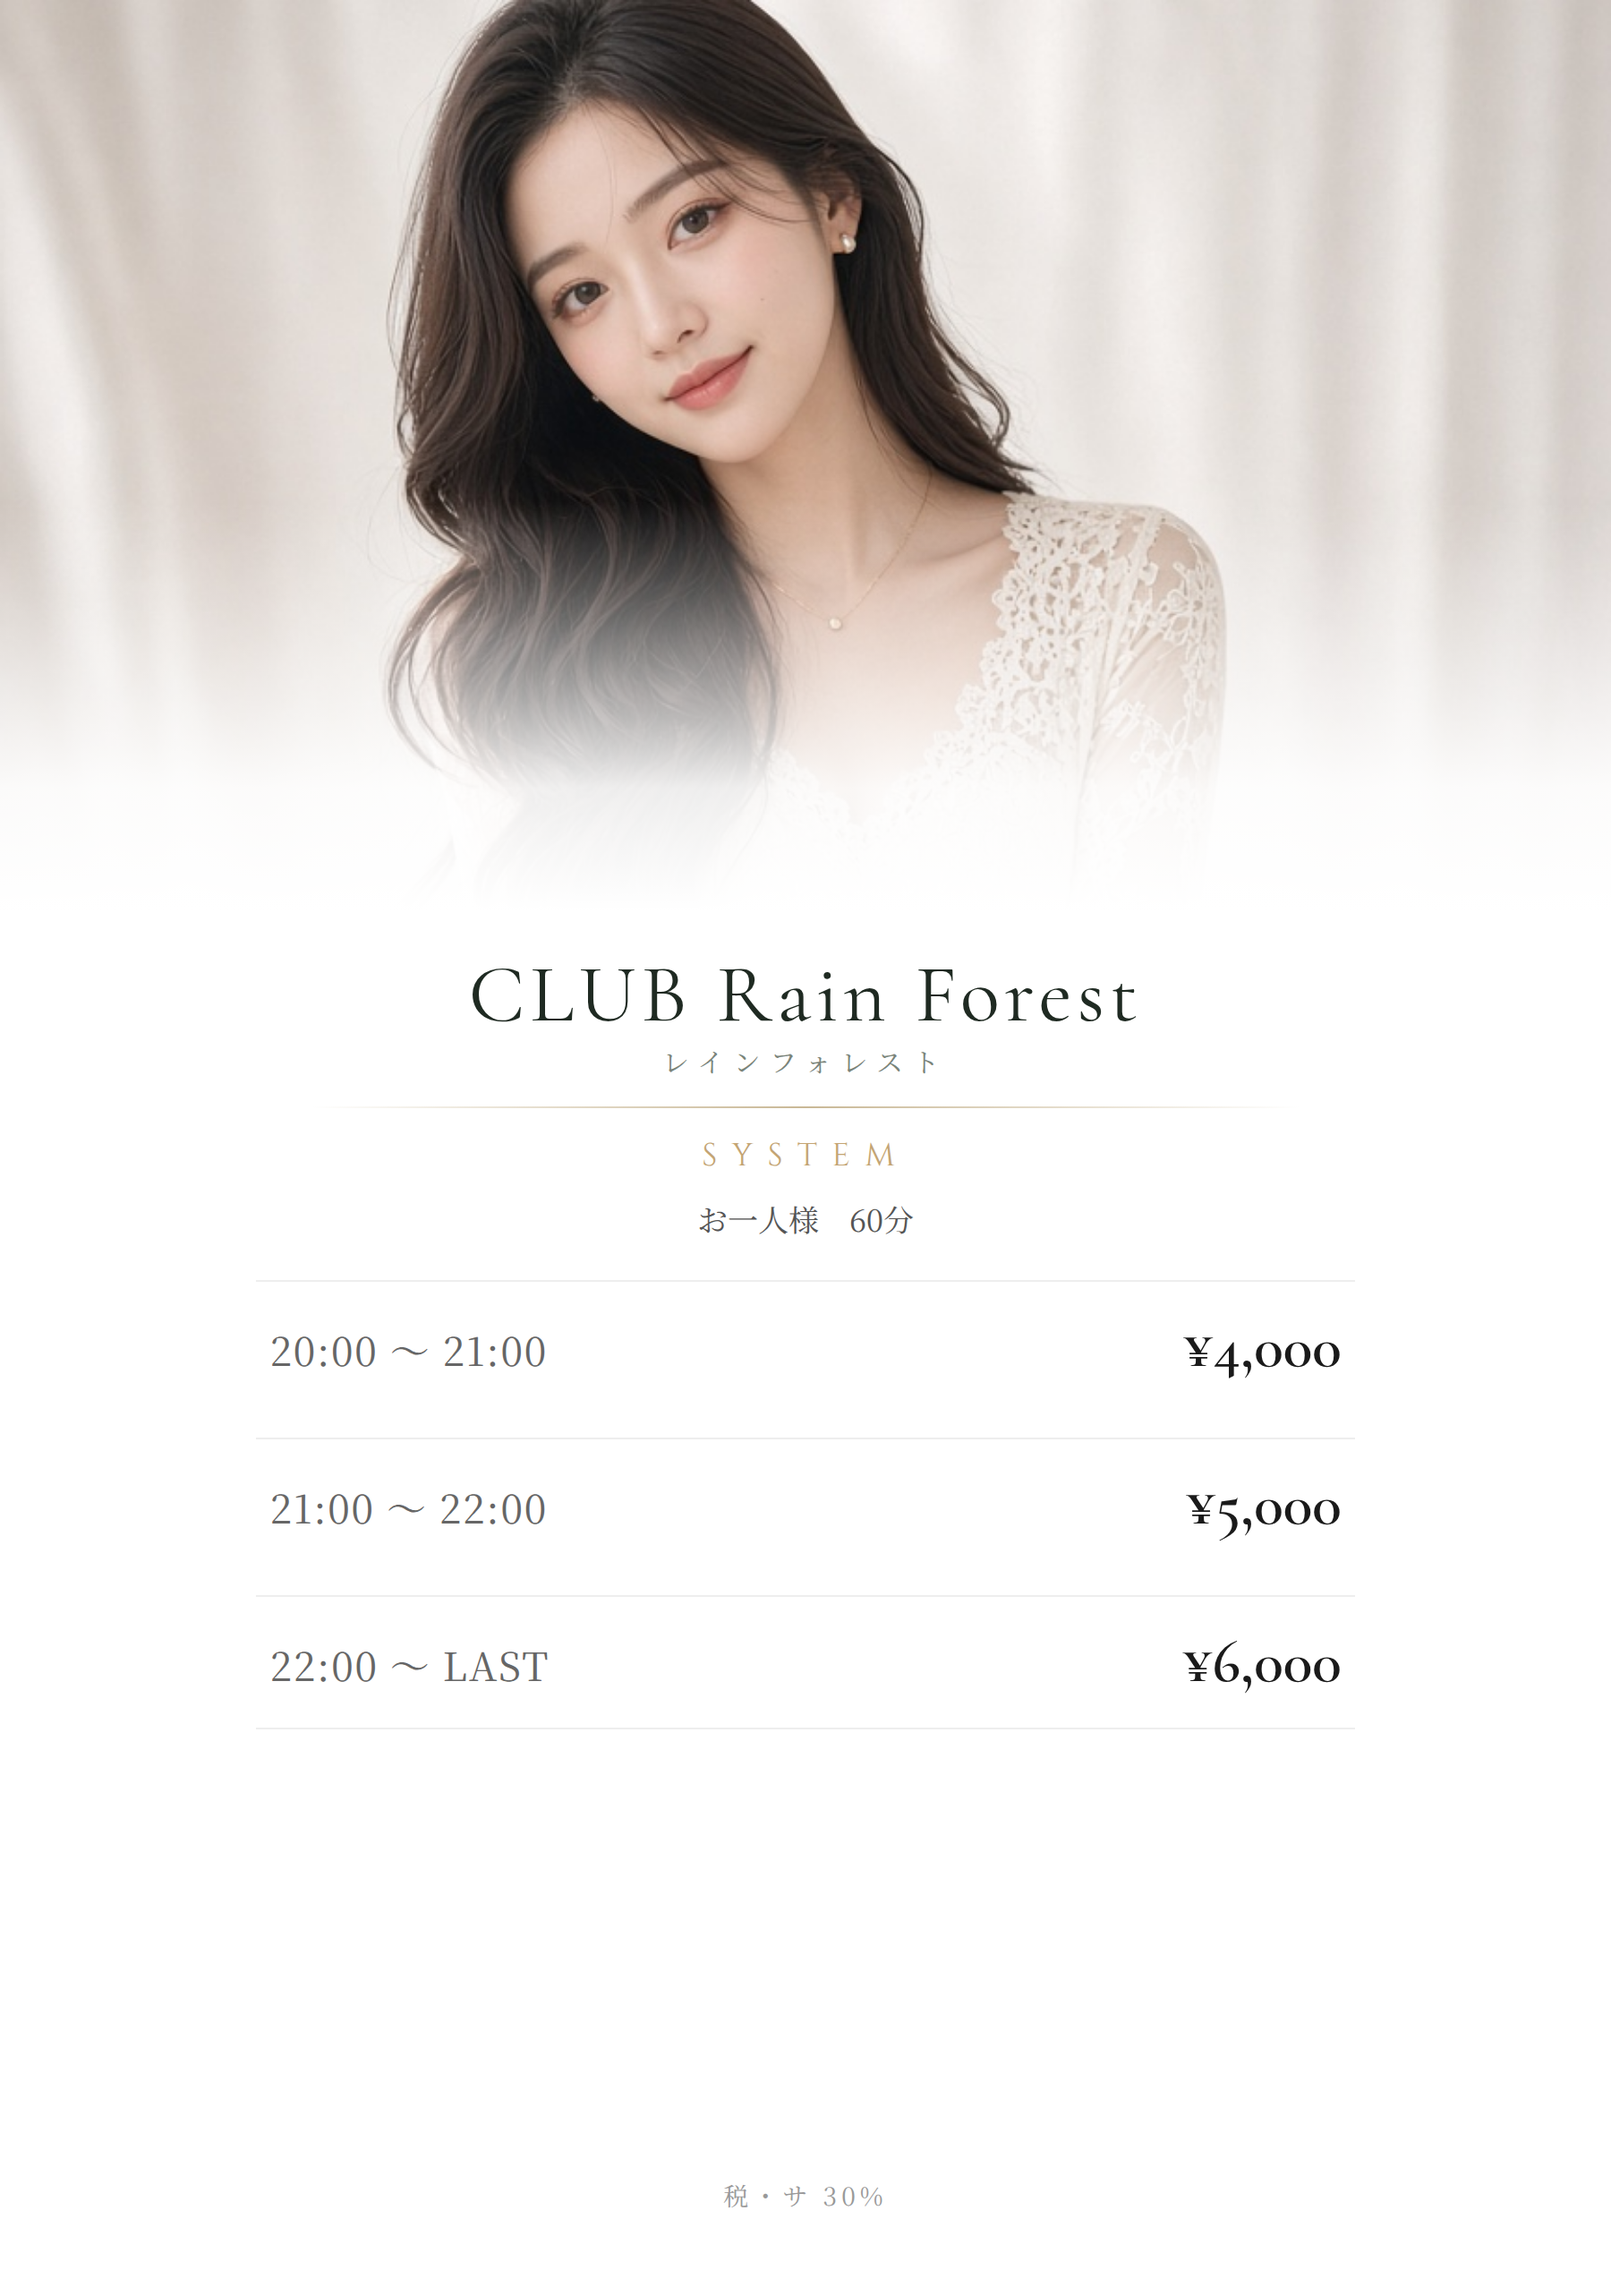
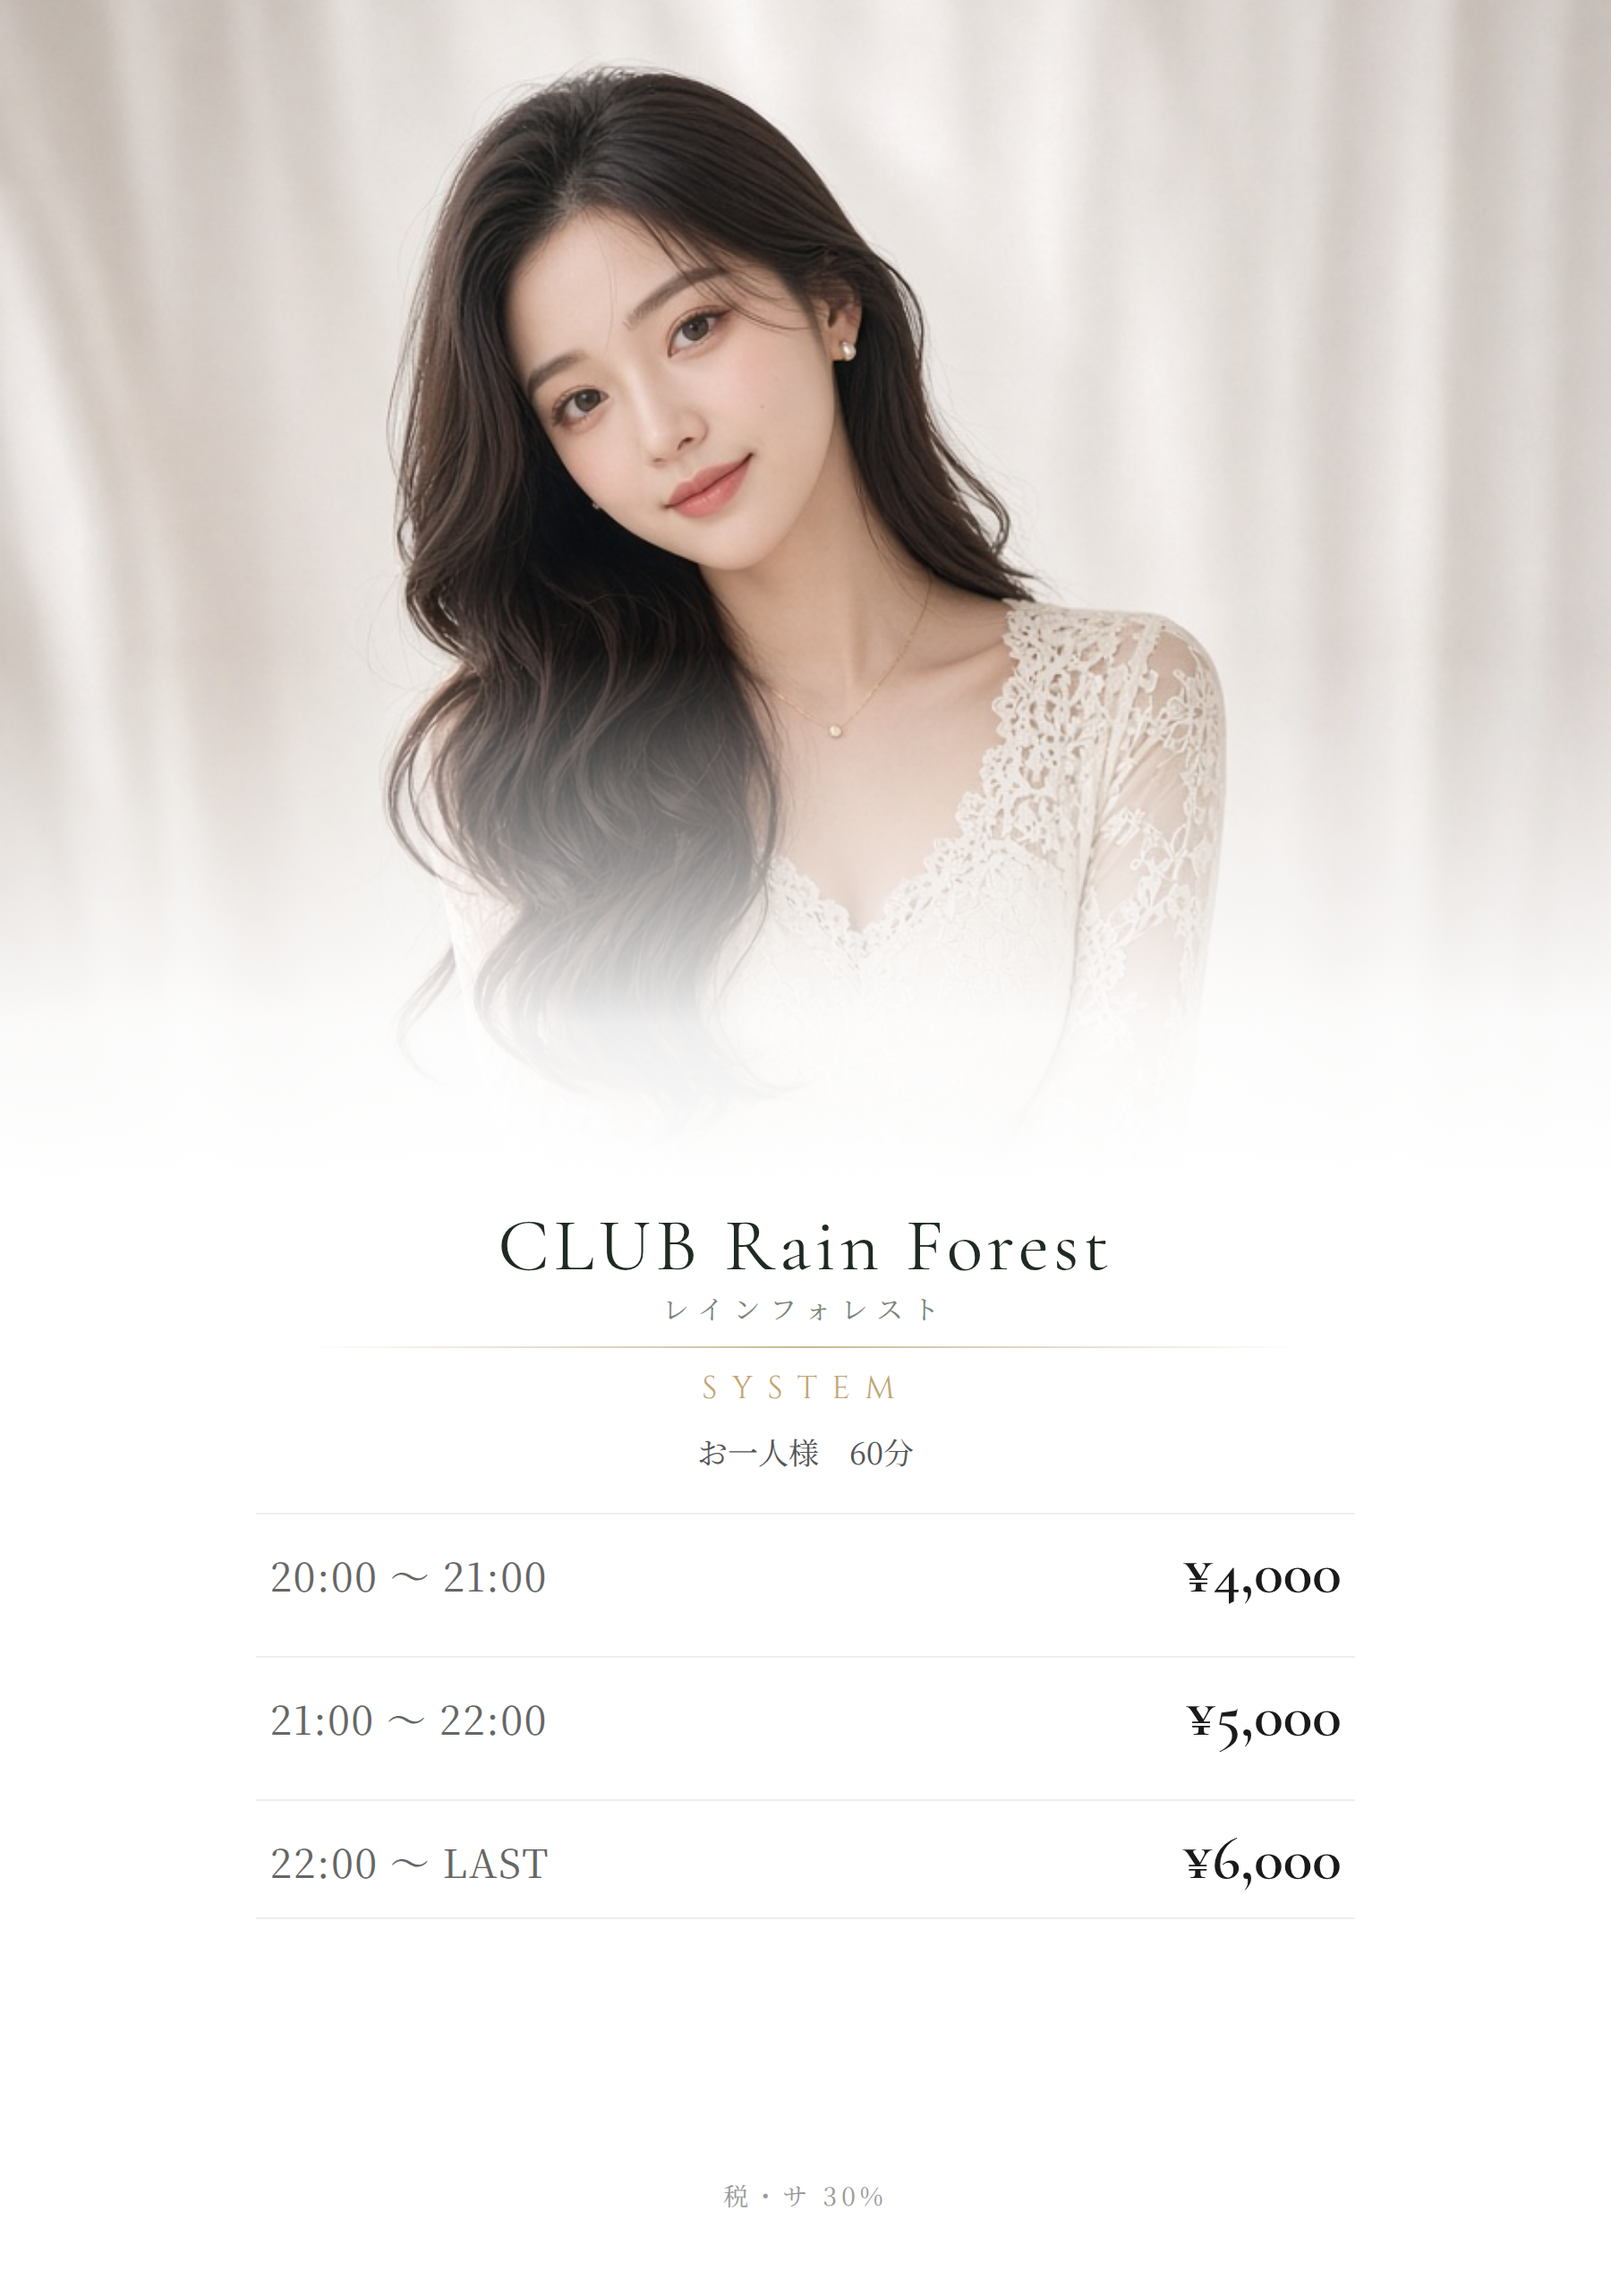
Enlarge panel 10 portrait to about half height
Increase the dual-layout photo area so the woman image fills
roughly the top half of the A1 price panel.

diff --git a/Documents/料金パネル/panels.html b/Documents/料金パネル/panels.html
@@ -53,7 +53,14 @@
   .layout-side_fade .photo-soft { margin-top: 56px; width: calc(100% - 120px); height: 40%; }
   .photo-hero { height: 52%; }
   .photo-mist { height: 46%; }
-  .dual-photo { height: 40%; }
+  .dual-photo { height: 50%; }
+  .p10 .dual-photo { height: 52%; }
+  .p10 .dual-photo img { object-position: center 12%; }
+  .p10 .dual-body { padding-top: 4px; padding-bottom: 8px; }
+  .p10 .brand-en { margin-top: 4px !important; font-size: 42px !important; }
+  .p10 .divider { margin: 10px 0 !important; }
+  .p10 .price-row { padding: 12px 8px !important; }
+  .p10 .tax { margin-bottom: 28px; }
   .split-photo { height: 44%; border-bottom: 1px solid #e4e6ea; }
   .mag-photo { height: 34%; }
   .photo-inset {
